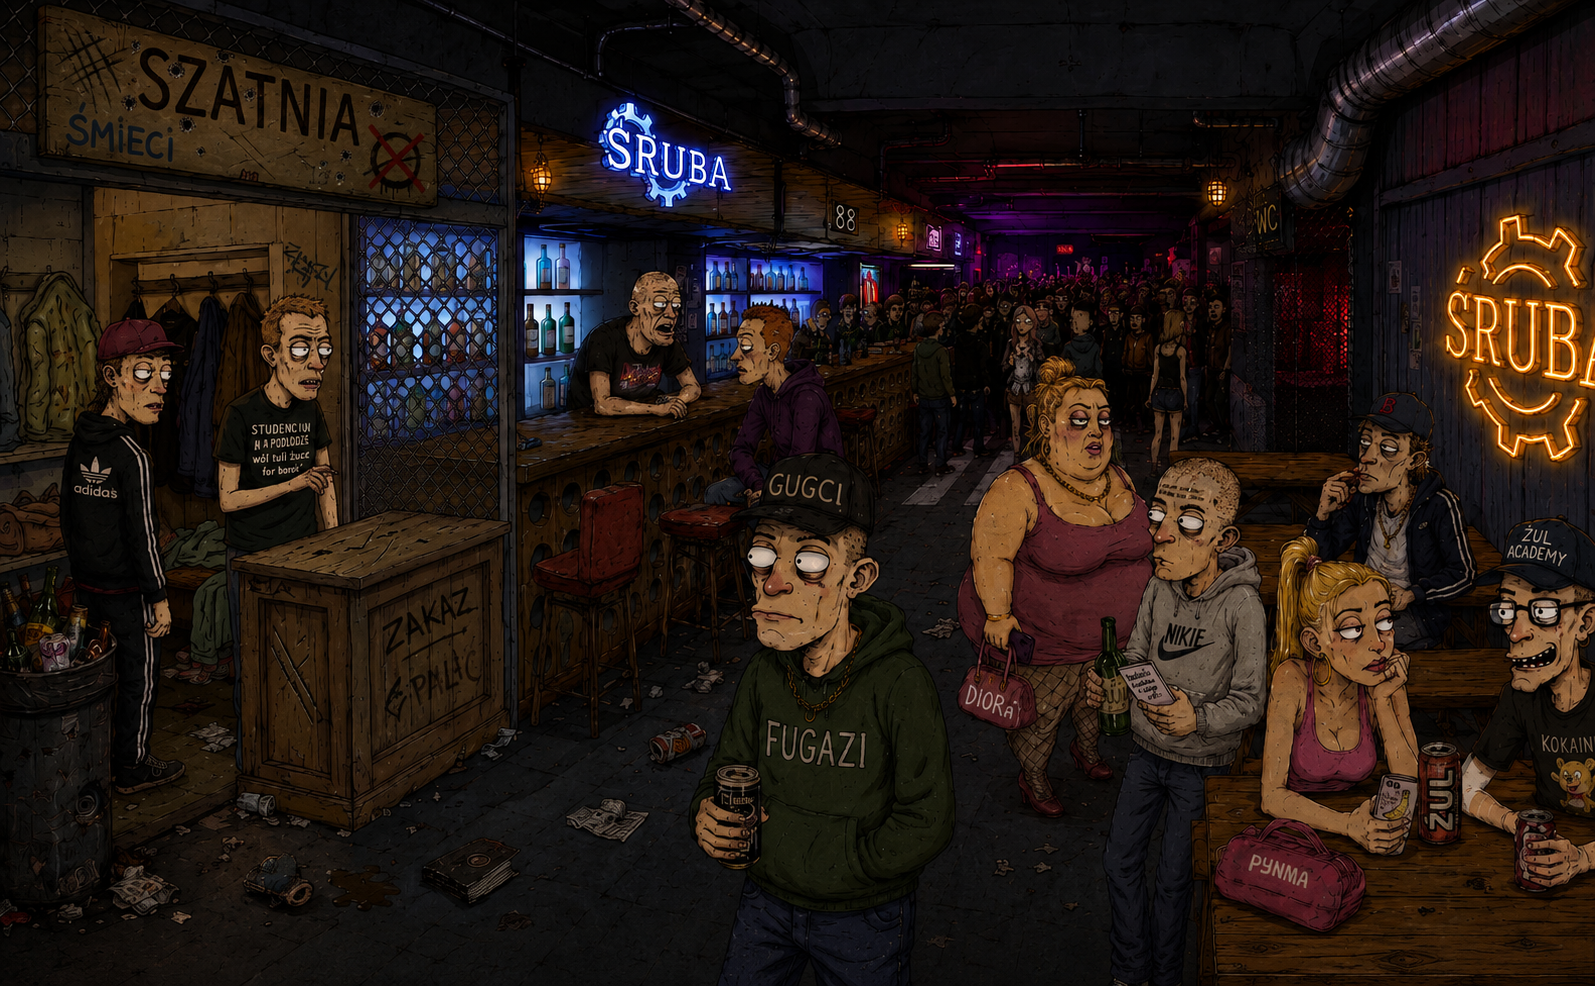
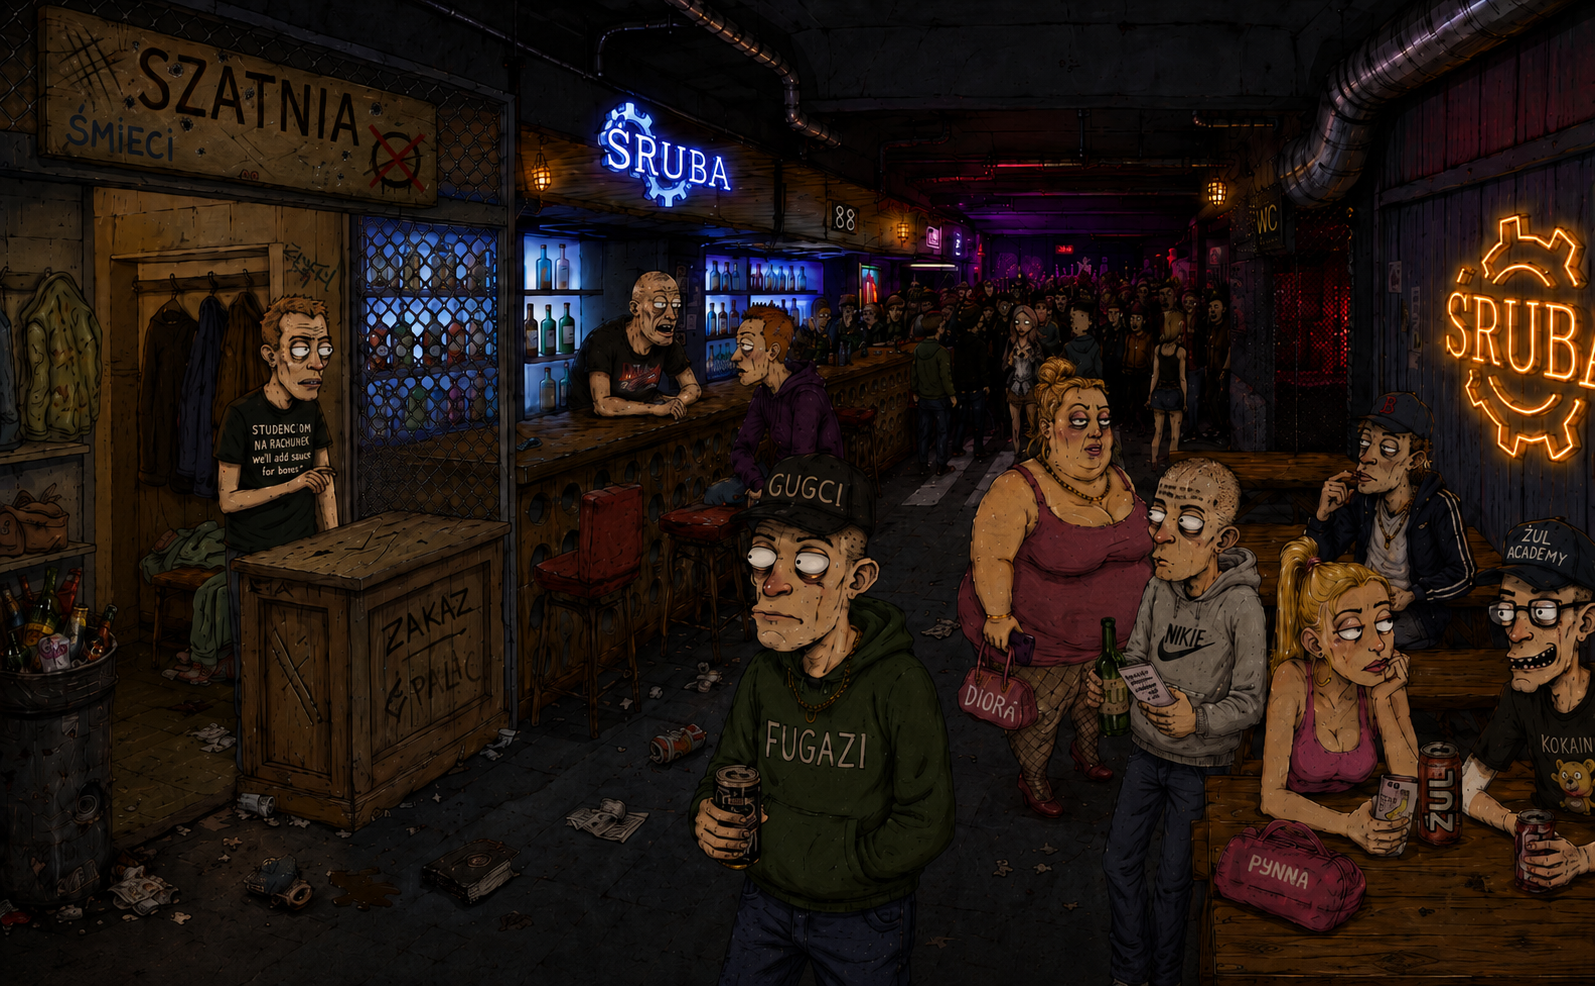
zrobienie cssa należycie - ulepszone kolory, okno o stałych rozmiarach

diff --git a/frontend/src/index.css b/frontend/src/index.css
@@ -1,4 +1,32 @@
 :root {
+	/* Tła */
+	--bg-body: #070709;
+	--bg-main: #111116;
+	--bg-dark: #0b0b0f;
+	--bg-panel: #16131a;
+
+	/* Obramowania */
+	--border-color: #1e1a22;
+	--border-glow: #2b2233;
+
+	/* Neony */
+	--neon-blue: #4da3ff;
+	--neon-blue-glow: #82c4ff;
+
+	--neon-orange: #ff9a3c;
+	--neon-gold: #d89b52;
+
+	--neon-pink: #b04cff;
+	--neon-red: #7a1d2d;
+
+	/* Tekst */
+	--text-light: #b7a38f;
+	--text-muted: #7b6d62;
+	--text-hover: #e0c7ae;
+
+	/* Hover */
+	--hover-dark: #1c1117;
+	--hover-light: #24161f;
 }
 
 * {
@@ -9,21 +37,74 @@
 
 html,
 body {
-	background: #121212;
+	background: var(--bg-body);
 	width: 100%;
 	height: 98%;
-	padding: 1%;
-	color: #ffffff;
+	/* padding: 1%; */
+
+	color: var(--text-light);
+
 	font-size: 30px;
+	font-family: "Rajdhani", sans-serif;
+
+	overflow: hidden;
+	position: relative;
 }
 
+/* Ambient neon glow */
+body::before {
+	content: "";
+	position: fixed;
+	inset: 0;
+
+	background:
+		radial-gradient(
+			circle at 70% 20%,
+			rgba(77, 163, 255, 0.08),
+			transparent 30%
+		),
+		radial-gradient(
+			circle at 85% 30%,
+			rgba(176, 76, 255, 0.06),
+			transparent 25%
+		),
+		radial-gradient(
+			circle at 60% 70%,
+			rgba(255, 154, 60, 0.05),
+			transparent 30%
+		);
+
+	pointer-events: none;
+	z-index: 0;
+}
+
+/* Usuń stałe wymiary i skalowanie z #root */
 #root {
+	width: 100%;
+	height: 100%;
+	display: flex;
+	align-items: center;
+	justify-content: center;
+	background: linear-gradient(
+		180deg,
+		rgba(20, 18, 25, 0.98) 0%,
+		rgba(10, 10, 14, 0.98) 100%
+	);
+	box-shadow:
+		0 0 20px rgba(0, 0, 0, 0.8),
+		0 0 40px rgba(122, 29, 45, 0.15);
+	position: relative;
+	z-index: 1;
+	margin: 0;
+}
+
+/* Nowy wewnętrzny kontener o stałym rozmiarze */
+.game-content {
 	width: 1700px;
 	height: 850px;
-	background: #000000;
-	margin: 0 auto;
-	border: 15px solid #222222;
 	display: flex;
+	transform-origin: center center;
+	/* Opcjonalnie możesz dodać border tutaj, jeśli będzie potrzebny */
 }
 
 .navBar {
@@ -33,98 +114,197 @@ body {
 
 .navBar-character {
 	padding: 10px;
+
 	width: 100%;
 	height: 220px;
-	background-color: #111111;
+
 	display: flex;
+
+	background: linear-gradient(180deg, #15131a 0%, #0d0d12 100%);
+
+	border-right: 1px solid #241b29;
+	border-bottom: 1px solid #241b29;
+
+	box-shadow: inset 0 0 20px rgba(0, 0, 0, 0.5);
 }
 
 .navBar-character button {
 	width: 200px;
 	height: 200px;
+
 	border: 0;
+	background: transparent;
+
+	cursor: pointer;
+	transition: transform 0.3s;
+}
+
+.navBar-character button:hover {
+	transform: scale(1.02);
 }
 
 .navBar-character button img {
 	width: 200px;
 	height: 200px;
-}
 
-.navBar-character button img {
-	width: 200px;
-	height: 200px;
+	border-radius: 8px;
+
+	box-shadow: 0 0 15px rgba(0, 0, 0, 0.5);
 }
 
 .navBar-character-currencies {
 	width: 140px;
 	height: 100%;
+
 	padding: 0 20px;
+
 	text-align: center;
+	color: var(--text-light);
 }
 
 .currencyImg {
 	margin-top: 15px;
+
 	width: 40px;
 	height: 40px;
+
+	filter: drop-shadow(0 0 4px rgba(255, 154, 60, 0.4));
 }
 
 .navBar-navigation {
 	width: 100%;
 	height: 600px;
-	background-color: #181818;
+
 	padding: 20px;
+
+	background: linear-gradient(180deg, #15131a 0%, #0d0d12 100%);
+
+	border-right: 1px solid #241b29;
+
+	box-shadow: inset 0 0 20px rgba(0, 0, 0, 0.5);
 }
 
 .navBar-navigation button {
 	width: 100%;
 	height: 50px;
-	background-color: #111111;
+
 	margin: 5px 0;
-	color: #ffffff;
+
+	background: linear-gradient(180deg, #18121a 0%, #0f0c12 100%);
+
+	color: var(--neon-gold);
+
 	font-size: 30px;
+	font-family: "Teko", sans-serif;
+	letter-spacing: 1px;
+
+	border: 1px solid #2e1f17;
+	border-radius: 5px;
+
+	cursor: pointer;
+
+	text-shadow: 0 0 4px rgba(216, 155, 82, 0.7);
+
+	box-shadow:
+		inset 0 0 8px rgba(255, 154, 60, 0.08),
+		0 0 4px rgba(0, 0, 0, 0.7);
+
+	transition:
+		background 0.3s,
+		color 0.3s,
+		box-shadow 0.3s,
+		text-shadow 0.3s,
+		transform 0.2s;
+}
+
+.navBar-navigation button:hover {
+	background: linear-gradient(180deg, #24141d 0%, #161019 100%);
+
+	color: #ffd29c;
+
+	border-color: #5c2d1d;
+
+	text-shadow: 0 0 8px rgba(255, 180, 100, 0.8);
+
+	box-shadow:
+		0 0 12px rgba(255, 120, 50, 0.25),
+		inset 0 0 10px rgba(255, 140, 70, 0.08);
+
+	transform: translateX(2px);
 }
 
 .clubMain {
 	position: relative;
-	background: url("assets/scenes/club_main.png");
-	background-size: contain;
 	width: 1310px;
 	height: 100%;
-	border: 14px double #000000;
+	background: url("assets/scenes/club_main.png") center / contain no-repeat;
+	background-color: #0b0b0f; /* kolor wypełnienia, dopasowany do stylu */
+	border: 2px solid #1f1a24;
+	box-shadow:
+		inset 0 0 40px rgba(0, 0, 0, 0.6),
+		inset 0 0 80px rgba(122, 29, 45, 0.08);
+}
+.clubMain::after {
+	content: "";
+
+	position: absolute;
+	inset: 0;
+
+	background: linear-gradient(180deg, rgba(0, 0, 0, 0.15), rgba(0, 0, 0, 0.35));
+
+	pointer-events: none;
 }
 
 .clubMain-barmanTextBox {
 	display: none;
+
+	font-size: 16px;
+
 	position: absolute;
-	top: 170px;
-	left: 475px;
-	width: 110px;
+	top: 200px;
+	left: 500px;
+
+	width: 70px;
+
 	padding: 1px 6px;
-	border: 1px solid #ffe600;
+
+	border: 1px solid var(--neon-blue);
 	border-radius: 20px;
+
+	background: rgba(10, 12, 18, 0.92);
+
+	color: #d2c1af;
+
+	text-shadow: 0 0 3px rgba(255, 255, 255, 0.15);
+
+	box-shadow: 0 0 12px rgba(77, 163, 255, 0.35);
+
+	backdrop-filter: blur(2px);
+
+	z-index: 2;
 }
 
 .clubMain-barman {
 	position: absolute;
-	top: 210px;
-	left: 450px;
+	top: 235px;
+	left: 458px;
+
 	width: 130px;
 	height: 130px;
+
+	z-index: 2;
 }
 
 .hover-image {
 	display: none;
 	cursor: pointer;
 }
+
 .clubMain-barman:hover .hover-image {
 	display: block;
 }
 
-/* .clubMain-barman img:hover {
-  
-} */
-
 .clubMain-barman:hover + .clubMain-barmanTextBox {
 	display: block;
-	opacity: 0.7;
+	opacity: 0.95;
 }

diff --git a/frontend/src/App.tsx b/frontend/src/App.tsx
@@ -1,16 +1,38 @@
-import { useState } from 'react'
-import NavBar from './components/NavBar'
-import ClubMain from './views/ClubMain'
+import { useState, useEffect, useRef } from "react";
+import NavBar from "./components/NavBar";
+import ClubMain from "./views/ClubMain";
+// import "./App.css";
 
 function App() {
-  const [count, setCount] = useState(0)
+	const [count, setCount] = useState(0);
+	const gameRef = useRef<HTMLDivElement | null>(null); // referencja do kontenera #root
 
-  return (
-    <>
-      <NavBar/>
-      <ClubMain/>
-    </>
-  )
+	useEffect(() => {
+		const gameElement = gameRef.current;
+		if (!gameElement) return;
+
+		const scaleGame = () => {
+			const scaleX = window.innerWidth / 1700;
+			const scaleY = window.innerHeight / 850;
+			const scale = Math.min(scaleX, scaleY);
+			gameElement.style.transform = `scale(${scale})`;
+		};
+
+		scaleGame();
+		window.addEventListener("resize", scaleGame);
+		return () => window.removeEventListener("resize", scaleGame);
+	}, []);
+
+	return (
+		<div className="gameWrapper">
+			<div id="root" className="app-root">
+				<div ref={gameRef} className="game-content">
+					<NavBar />
+					<ClubMain />
+				</div>
+			</div>
+		</div>
+	);
 }
 
-export default App
+export default App;

diff --git a/frontend/src/views/ClubMain.tsx b/frontend/src/views/ClubMain.tsx
@@ -7,8 +7,8 @@ function ClubMain() {
 				<img
 					src={barmanHover}
 					alt="barman_hover"
-					width={126}
-					height={141}
+					width={131}
+					height={144}
 					className="hover-image"
 				/>
 			</div>